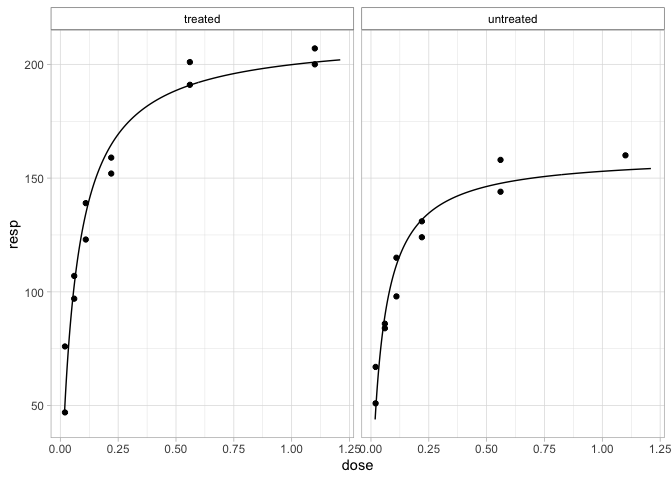
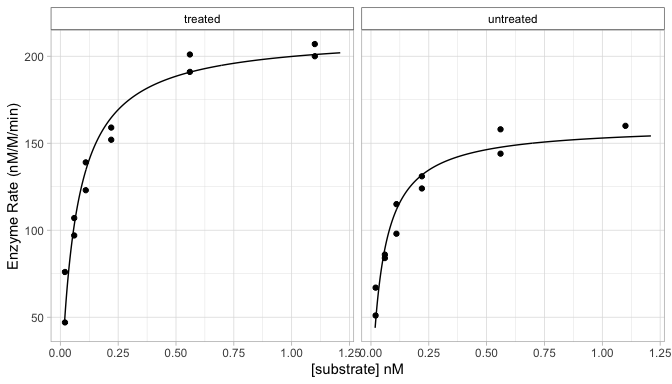
build: fix problems with R:CMD check, refactor some functions and update readme

diff --git a/README.md b/README.md
@@ -63,17 +63,17 @@ df <- b_enzyme_rate(Puromycin, conc, rate, state)
 df
 #> # A tibble: 2 × 6
 #> # Groups:   state [2]
-#>   state     raw               data              drmod  pred           coefs     
+#>   state     raw               data              drmod  line           coefs     
 #>   <fct>     <list>            <list>            <list> <list>         <list>    
-#> 1 treated   <tibble [12 × 2]> <tibble [12 × 5]> <drc>  <df [120 × 4]> <tibble […
-#> 2 untreated <tibble [11 × 2]> <tibble [11 × 5]> <drc>  <df [110 × 4]> <tibble […
+#> 1 treated   <tibble [12 × 2]> <tibble [12 × 5]> <drc>  <df [230 × 4]> <tibble […
+#> 2 untreated <tibble [11 × 2]> <tibble [11 × 5]> <drc>  <df [230 × 4]> <tibble […
 ```
 
 The result is a tibble (like a data.frame) that has a row for each
 sample and a column the relevant data for each. The original data is in
 `raw`, the dose, response and residuals are in `data`, the fitted model
-is inside `drmod` and the fitted curve (to draw the line) in `pred` and
-the coefficients (Vmax, Km) in `coefs`.
+is inside `drmod` and the fitted curve (to draw the line) in `line` and
+the coefficients (such as *Vmax* and *Km*) in `coefs`.
 
 To extract relevant coefficients, use `b_coefs()`.
 
@@ -90,29 +90,26 @@ df %>%
 #> 4 untreated Km    (Intercept)   0.0477   0.00842      5.67 3.07e- 4
 ```
 
-Make a nice looking table of the results.
-
-``` r
-df %>% 
-  b_coefs() %>% 
-  knitr::kable()
-```
-
-| state     | term | curve       |    estimate | std.error | statistic |   p.value |
-|:----------|:-----|:------------|------------:|----------:|----------:|----------:|
-| treated   | Vmax | (Intercept) | 212.6838544 | 7.1606488 | 29.701757 | 0.0000000 |
-| treated   | Km   | (Intercept) |   0.0641215 | 0.0087112 |  7.360806 | 0.0000242 |
-| untreated | Vmax | (Intercept) | 160.2802158 | 6.8060674 | 23.549607 | 0.0000000 |
-| untreated | Km   | (Intercept) |   0.0477084 | 0.0084203 |  5.665846 | 0.0003073 |
-
 ## Plotting
 
 Quick and convenient plotting for the results of different plotting
 functions.
 
 ``` r
-df %>% 
+plt <- df %>% 
   b_plot()
+plt
+```
+
+<img src="man/figures/README-unnamed-chunk-4-1.png" width="100%" />
+
+The `b_plot()` function just returns a `ggplot` object, so you can
+continue customisation as you would otherwise.
+
+``` r
+plt + 
+  ggplot2::labs(x = "[substrate] nM", 
+                y = "Enzyme Rate (nM/M/min)")
 ```
 
 <img src="man/figures/README-unnamed-chunk-5-1.png" width="100%" />

diff --git a/LICENSE.md b/LICENSE.md
@@ -1,0 +1,21 @@
+# MIT License
+
+Copyright (c) 2021 biochemr authors
+
+Permission is hereby granted, free of charge, to any person obtaining a copy
+of this software and associated documentation files (the "Software"), to deal
+in the Software without restriction, including without limitation the rights
+to use, copy, modify, merge, publish, distribute, sublicense, and/or sell
+copies of the Software, and to permit persons to whom the Software is
+furnished to do so, subject to the following conditions:
+
+The above copyright notice and this permission notice shall be included in all
+copies or substantial portions of the Software.
+
+THE SOFTWARE IS PROVIDED "AS IS", WITHOUT WARRANTY OF ANY KIND, EXPRESS OR
+IMPLIED, INCLUDING BUT NOT LIMITED TO THE WARRANTIES OF MERCHANTABILITY,
+FITNESS FOR A PARTICULAR PURPOSE AND NONINFRINGEMENT. IN NO EVENT SHALL THE
+AUTHORS OR COPYRIGHT HOLDERS BE LIABLE FOR ANY CLAIM, DAMAGES OR OTHER
+LIABILITY, WHETHER IN AN ACTION OF CONTRACT, TORT OR OTHERWISE, ARISING FROM,
+OUT OF OR IN CONNECTION WITH THE SOFTWARE OR THE USE OR OTHER DEALINGS IN THE
+SOFTWARE.
